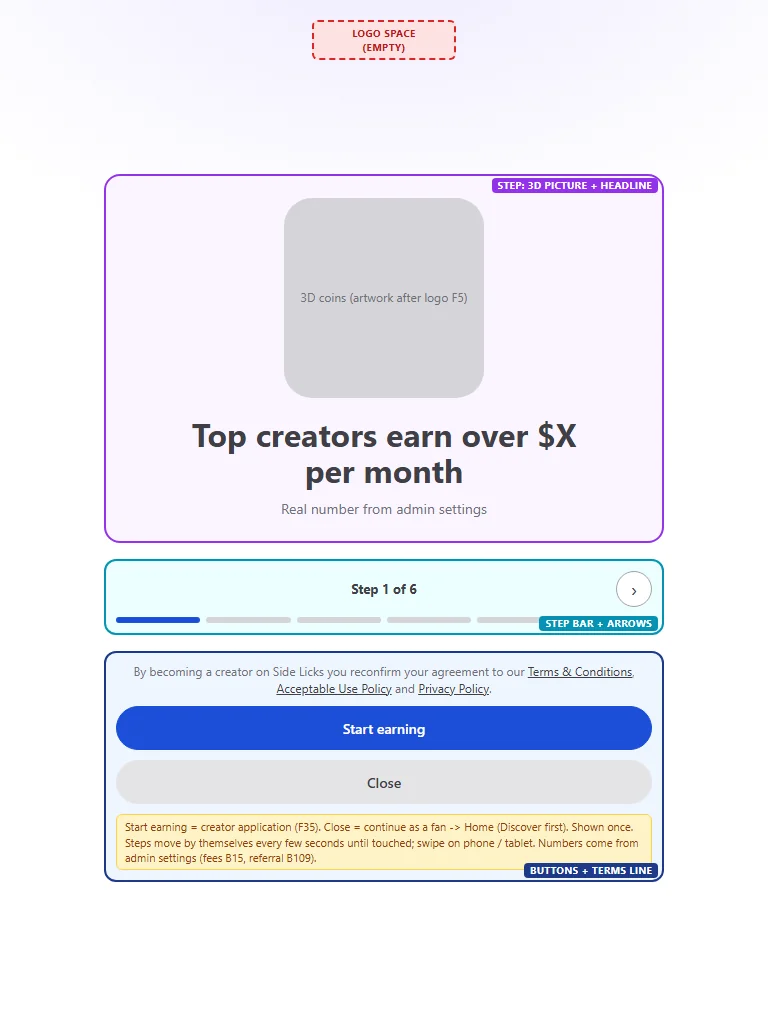
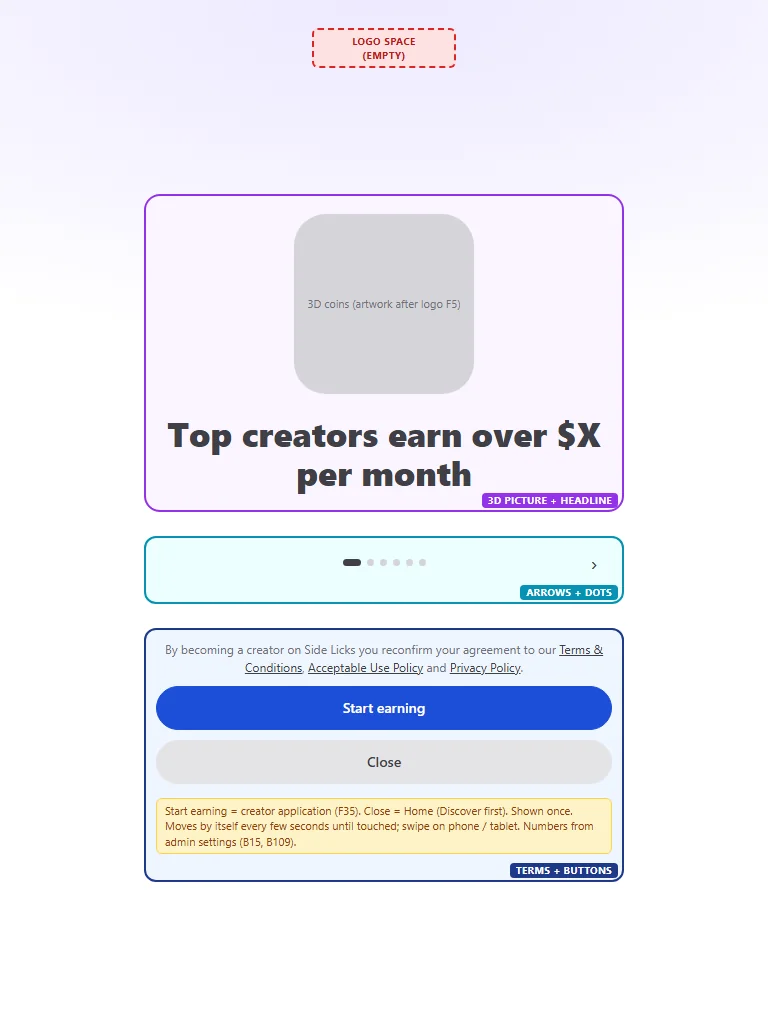
Become a creator wireframe v2: one centred column on every size (owner)

Changed region(s): [[0.125, 0.1562, 0.875, 0.875], [0.4062, 0.0, 0.5938, 0.0938], [0.1875, 0.1875, 0.2188, 0.2188]]

diff --git a/wireframes/onboarding.html b/wireframes/onboarding.html
@@ -7,51 +7,46 @@
 <link rel="stylesheet" href="wf.css">
 <style>
   /* F117: shown to EVERY new user right after sign-up (email or Google), before Home. Also opens from "Become a Creator" in the menu.
-     Different from the competitor: step bar "Step N of 6" instead of dots, and on laptop + desktop the picture sits LEFT of the text. */
+     Layout v2 (owner 2026-10-28): ONE centred column on every size, picture on top and the headline under it on every size, like the reference - logo, picture, headline,
+     arrows + dots, terms line, buttons. Nothing wider than the column, nothing touching the edges. */
   body { background: #fff; }
-  .page { min-height: 100vh; display: flex; flex-direction: column; align-items: center; padding: 12px 16px 24px; gap: 12px;
-          background: radial-gradient(120% 60% at 50% -10%, #ede9fe, #fff 60%); }
-  .top { width: 100%; display: flex; justify-content: center; }
-  .stage { width: 100%; max-width: 480px; display: grid; gap: 16px; flex: 1; align-content: center; }
-  .slide { display: grid; justify-items: center; gap: 18px; padding: 24px 12px; border-radius: 16px; text-align: center; }
-  .picwrap { display: grid; place-items: center; }
-  .pic { width: 150px; height: 150px; border-radius: 28px; background: var(--box-2); display: grid; place-items: center; color: var(--soft); font-size: 12px; padding: 8px; text-align: center; }
-  .text { display: grid; gap: 10px; justify-items: center; }
-  .slide h1 { margin: 0; font-size: 26px; line-height: 1.15; max-width: 340px; }
-  .slide p { margin: 0; color: var(--soft); font-size: 14px; max-width: 340px; }
-  .steps { display: grid; gap: 10px; padding: 12px; border-radius: 12px; }
-  .steps .row { display: flex; align-items: center; justify-content: space-between; gap: 12px; font-size: 13px; }
-  .arrow { width: 36px; height: 36px; border-radius: 50%; border: 1.5px solid var(--line); display: grid; place-items: center; background: #fff; font-size: 20px; }
+  .page {
+    min-height: 100vh; display: flex; flex-direction: column; align-items: center;
+    padding: 16px 20px 28px;
+    background: radial-gradient(140% 45% at 50% 0%, #ede9fe 0%, #f5f3ff 40%, #fff 75%);
+  }
+  .col { width: 100%; max-width: 420px; flex: 1; display: flex; flex-direction: column; align-items: center; justify-content: center; gap: 20px; }
+  .col > .logo-slot { margin-bottom: auto; }
+  .slide { width: 100%; display: grid; justify-items: center; gap: 20px; padding: 20px 16px; border-radius: 16px; text-align: center; }
+  .pic { width: 140px; height: 140px; border-radius: 32px; background: var(--box-2); display: grid; place-items: center; color: var(--soft); font-size: 11px; padding: 10px; }
+  .slide h1 { margin: 0; font-size: 26px; line-height: 1.15; font-weight: 800; }
+  .nav { width: 100%; display: grid; grid-template-columns: 40px 1fr 40px; align-items: center; padding: 8px 8px 24px; border-radius: 12px; }
+  .arrow { width: 36px; height: 36px; border-radius: 50%; display: grid; place-items: center; font-size: 22px; color: var(--ink); }
   .arrow.off { visibility: hidden; }
-  .bar { display: grid; grid-template-columns: repeat(6, 1fr); gap: 6px; }
-  .bar i { height: 6px; border-radius: 3px; background: var(--box-2); }
-  .bar i.on { background: #1d4ed8; }
-  .cta { display: grid; gap: 10px; padding: 12px; border-radius: 12px; }
-  .terms { font-size: 12px; color: var(--soft); text-align: center; }
+  .dots { display: flex; justify-content: center; gap: 6px; }
+  .dots i { width: 7px; height: 7px; border-radius: 50%; background: var(--box-2); }
+  .dots i.on { background: var(--ink); width: 18px; border-radius: 4px; }
+  .cta { width: 100%; display: grid; gap: 10px; padding: 12px 12px 28px; border-radius: 12px; margin-bottom: auto; }
+  .terms { font-size: 12px; color: var(--soft); text-align: center; line-height: 1.5; }
   .btn.close { background: var(--box); border-color: var(--box); color: var(--ink); }
+  .note { margin-top: 4px; }
 
   @media (min-width: 640px) {
-    .page { padding: 20px 32px 40px; }
-    .stage { max-width: 560px; }
-    .pic { width: 200px; height: 200px; }
-    .slide h1 { font-size: 32px; max-width: 420px; }
+    .page { padding: 28px 32px 40px; }
+    .col { max-width: 480px; gap: 24px; }
+    .pic { width: 180px; height: 180px; }
+    .slide h1 { font-size: 34px; }
   }
-  /* laptop + desktop: picture on the LEFT, headline / steps / buttons on the right */
   @media (min-width: 1024px) {
-    .stage { max-width: 960px; grid-template-columns: 1fr 1fr; column-gap: 40px; align-items: center; }
-    .slide { grid-column: 1 / -1; grid-template-columns: 1fr 1fr; column-gap: 40px; text-align: left; justify-items: stretch; padding: 32px; }
-    .picwrap { border-radius: 20px; padding: 40px; background: #f3e8ff; }
-    .text { justify-items: start; }
-    .pic { width: 260px; height: 260px; }
-    .slide h1 { font-size: 40px; max-width: none; }
-    .slide p { max-width: none; }
-    .steps { grid-column: 2; }
-    .cta { grid-column: 2; }
+    .col { max-width: 520px; }
+    .pic { width: 200px; height: 200px; }
+    .slide h1 { font-size: 38px; }
   }
   @media (min-width: 1440px) {
-    .stage { max-width: 1120px; }
-    .pic { width: 320px; height: 320px; }
-    .slide h1 { font-size: 46px; }
+    .page { padding-top: 40px; }
+    .col { max-width: 560px; }
+    .pic { width: 240px; height: 240px; }
+    .slide h1 { font-size: 42px; }
   }
 </style>
 </head>
@@ -63,52 +58,42 @@
   <span class="size"></span>
 </div>
 <div class="page">
-  <div class="top">
+  <div class="col">
     <div class="logo-slot">Logo space<br>(empty)</div>
-  </div>
-  <div class="stage">
-    <section class="slide z-slide" data-zone="Step: 3D picture + headline">
-      <div class="picwrap"><div class="pic" id="pic"></div></div>
-      <div class="text">
-        <h1 id="head"></h1>
-        <p id="sub"></p>
-      </div>
+    <section class="slide z-slide lbl-bottom" data-zone="3D picture + headline">
+      <div class="pic" id="pic"></div>
+      <h1 id="head"></h1>
     </section>
-    <div class="steps z-steps lbl-bottom" data-zone="Step bar + arrows">
-      <div class="row">
-        <span class="arrow" id="prev">&lsaquo;</span>
-        <b id="count"></b>
-        <span class="arrow" id="next">&rsaquo;</span>
-      </div>
-      <div class="bar" id="bar"><i></i><i></i><i></i><i></i><i></i><i></i></div>
+    <div class="nav z-steps lbl-bottom" data-zone="Arrows + dots">
+      <span class="arrow" id="prev">&lsaquo;</span>
+      <div class="dots" id="dots"><i></i><i></i><i></i><i></i><i></i><i></i></div>
+      <span class="arrow" id="next">&rsaquo;</span>
     </div>
-    <div class="cta z-cta lbl-bottom" data-zone="Buttons + terms line">
+    <div class="cta z-cta lbl-bottom" data-zone="Terms + buttons">
       <div class="terms">By becoming a creator on Side Licks you reconfirm your agreement to our <a href="#">Terms &amp; Conditions</a>, <a href="#">Acceptable Use Policy</a> and <a href="#">Privacy Policy</a>.</div>
       <button class="btn" type="button">Start earning</button>
       <button class="btn close" type="button">Close</button>
-      <span class="note">Start earning = creator application (F35). Close = continue as a fan -> Home (Discover first). Shown once. Steps move by themselves every few seconds until touched; swipe on phone / tablet. Numbers come from admin settings (fees B15, referral B109).</span>
+      <span class="note">Start earning = creator application (F35). Close = Home (Discover first). Shown once. Moves by itself every few seconds until touched; swipe on phone / tablet. Numbers from admin settings (B15, B109).</span>
     </div>
   </div>
 </div>
 <script>
   const STEPS = [
-    ["3D coins", "Top creators earn over $X per month", "Real number from admin settings"],
-    ["3D globe", "One platform. Built to make creators money", "Subscriptions, tips, paid posts, messages and live in one place"],
-    ["3D coins", "Keep X% for N days after you verify. Then Y%", "Fee numbers from admin settings (B15)"],
-    ["3D bar chart", "Analytics built to grow your income", "See what earns the most"],
-    ["3D pie chart", "Refer a creator. Earn X% of their income", "Referral numbers from admin settings (B109)"],
-    ["3D tick", "Verified fast. Earning faster", "Get verified and start earning sooner"],
+    ["3D coins", "Top creators earn over $X per month"],
+    ["3D globe", "One platform. Built to make creators money"],
+    ["3D coins", "Keep X% for N days after you verify. Then Y%"],
+    ["3D bar chart", "Analytics built to grow your income"],
+    ["3D pie chart", "Refer a creator. Earn X% of their income"],
+    ["3D tick", "Verified fast. Earning faster"],
   ];
   const p = new URLSearchParams(location.search);
   const n = Math.min(6, Math.max(1, +(p.get('state') || 1)));
   if (p.has('shot')) document.body.classList.add('shot');
   document.querySelectorAll('.wf-bar a[data-s]').forEach(a => a.classList.toggle('on', +a.dataset.s === n));
-  const [pic, head, sub] = STEPS[n - 1];
+  const [pic, head] = STEPS[n - 1];
   document.getElementById('pic').textContent = pic + ' (artwork after logo F5)';
   document.getElementById('head').textContent = head;
-  document.getElementById('sub').textContent = sub;
-  document.getElementById('count').textContent = 'Step ' + n + ' of 6';
-  document.querySelectorAll('#bar i').forEach((i, k) => i.classList.toggle('on', k < n));
+  document.querySelectorAll('#dots i').forEach((i, k) => i.classList.toggle('on', k === n - 1));
   document.getElementById('prev').classList.toggle('off', n === 1);
   document.getElementById('next').classList.toggle('off', n === 6);
 </script>

diff --git a/CLAUDE.md b/CLAUDE.md
@@ -33,9 +33,9 @@ Details: `code.md` (how to run, structure, tests), `design.md` (screens, sizes, 
 
 ## Status (update every task)
 
-- 2026-10-27 Step 1 (B20 + F6 wireframes): project set up, start page + `/api/health` working, wireframes for register / verify email / home made at 4 sizes - **wireframes APPROVED by owner 2026-10-28** (register, verify email, home; with continuous scroll on Discover). F5 (logo) waits for owner. Git remote `origin` = GitHub repo above; Excel task list now v75. First approval message was withdrawn by the owner (no pictures had been shown); colour-coded pictures sent 2026-10-27. Home redesigned (layout v2: live rings, post grid, suggestions inside the feed; then v3: owner wants the menu ALWAYS on the left on every device, no bottom bar). Discover (2026-10-28) = one-line video row -> "Creators you may like" row -> new video row with different creators -> ... (owner). Feed algorithm changed by owner: Discover tab opens first on every login (videos, tap name = profile), Subscribed tab next to it (only followed / subscribed creators); first-login screen replaced by this. Branded mockups wait for the logo (F5).
+- 2026-10-27 Step 1 (B20 + F6 wireframes): project set up, start page + `/api/health` working, wireframes for register / verify email / home made at 4 sizes - **wireframes APPROVED by owner 2026-10-28** (register, verify email, home; with continuous scroll on Discover). F5 (logo) waits for owner. Git remote `origin` = GitHub repo above; Excel task list now v76. First approval message was withdrawn by the owner (no pictures had been shown); colour-coded pictures sent 2026-10-27. Home redesigned (layout v2: live rings, post grid, suggestions inside the feed; then v3: owner wants the menu ALWAYS on the left on every device, no bottom bar). Discover (2026-10-28) = one-line video row -> "Creators you may like" row -> new video row with different creators -> ... (owner). Feed algorithm changed by owner: Discover tab opens first on every login (videos, tap name = profile), Subscribed tab next to it (only followed / subscribed creators); first-login screen replaced by this. Branded mockups wait for the logo (F5).
 - 2026-10-28 **Step 1A DONE: home page built** at http://localhost:3000/home (sample data; real feed API = B110, accounts = B25). Tested 3 runs x 4 sizes. Next: review with the owner which steps come next (owner asked for this), then build register / verify email.
-- 2026-10-28 **Step 1B (owner: register + login before "check your email")**: register BUILT (real page + API + database + Check your email popup + toasts). Login wireframe **approved 2026-10-28** and login BUILT (page + `POST /api/auth/login` + "Send it again"); unverified emails can not log in until verified. Sign up button added under Log in (owner); login wireframe approved again with it. After sign-up "Become a creator" steps wireframe (F117, 6 steps from the Excel) made, **waiting for owner approval**. Excel v75. Emails only go to the `email_outbox` table until an email service is chosen (E1).
+- 2026-10-28 **Step 1B (owner: register + login before "check your email")**: register BUILT (real page + API + database + Check your email popup + toasts). Login wireframe **approved 2026-10-28** and login BUILT (page + `POST /api/auth/login` + "Send it again"); unverified emails can not log in until verified. Sign up button added under Log in (owner); login wireframe approved again with it. After sign-up "Become a creator" steps wireframe (F117, 6 steps from the Excel) made, redone as one centred column (owner), **waiting for owner approval**. Excel v76. Emails only go to the `email_outbox` table until an email service is chosen (E1).
 
 ## Working notes for Claude
 

diff --git a/design.md b/design.md
@@ -52,7 +52,7 @@ Font: Geist (next/font, self-hosted at build). Change brand colours in one place
 
 **Log in** (approved + built 2026-10-28) - same frame as Register (info panel on laptop+, centred card on tablet, plain form on phone). "Welcome back", Continue with Google, or, Email, Password + Show, "Keep me logged in" tick, "Forgot password?" link, Log in button (grey until both filled), outlined "New to Side Licks? Sign up" button right under it (owner 2026-10-28, like Fanvue) -> Register, "New here? Create account" top right. States: wrong email or password = red box above the form; email not verified yet = yellow box "Please verify your email first" + "Send it again". After log in -> Home (Discover first). Email not verified = no log-in yet (verify first); "Send it again" sends a new link (same 1-minute / 5-an-hour limits). "Keep me logged in" ticked = 30 days, not ticked = until the browser closes (server: 1 day). "Forgot password?" = toast "comes in a later step" (F13). Real pictures: `wireframes/real/login-*.webp`.
 
-**After sign-up: Become a creator** (F117, new 2026-10-28, waiting) - shown to every new user right after sign-up, before Home (owner). Full screen, soft glow at the top, empty logo space centred. 6 steps from the Excel (S104-S109): coins "Top creators earn over $X per month", globe "One platform. Built to make creators money", coins "Keep X% for N days after you verify. Then Y%", bar chart "Analytics built to grow your income", pie chart "Refer a creator. Earn X% of their income", tick "Verified fast. Earning faster". Different from the competitor: "Step N of 6" bar instead of dots, and on laptop + desktop the picture is LEFT of the headline. Arrows (back hidden on step 1, next hidden on step 6), swipe, auto-move until touched; terms line; "Start earning" (creator application F35) and "Close" (-> Home). Shown once.
+**After sign-up: Become a creator** (F117, new 2026-10-28, waiting) - shown to every new user right after sign-up, before Home (owner). Full screen, soft glow at the top, empty logo space centred. 6 steps from the Excel (S104-S109): coins "Top creators earn over $X per month", globe "One platform. Built to make creators money", coins "Keep X% for N days after you verify. Then Y%", bar chart "Analytics built to grow your income", pie chart "Refer a creator. Earn X% of their income", tick "Verified fast. Earning faster". Layout v2 (owner 2026-10-28: v1 side-by-side "looked edgy and bleeding out"): ONE centred column on every size (max 420 / 480 / 520 / 560 px phone / tablet / laptop / desktop) - logo space, 3D picture, headline UNDER the picture, arrows at the column edges with dots between (active dot = short bar), terms line, buttons. Arrows (back hidden on step 1, next hidden on step 6), swipe, auto-move until touched; terms line; "Start earning" (creator application F35) and "Close" (-> Home). Shown once.
 
 **Live now row** (owner 2026-10-28): exactly 5 rings in view on every size (each 1/5 of the row, ring 50 / 68 / 80 / 92 px phone / tablet / laptop / desktop), first name + "N watching" (phone: eye icon + N), arrows / swipe move a full 5, left arrow grey at the start, right arrow grey at the end.
 

diff --git a/code.md b/code.md
@@ -142,3 +142,4 @@ Goal: Discover never ends, rows never look cut off, and the fan is not worn out 
 - 2026-10-28 STEP 1B (part 2): login wireframe approved and built: /login page (LoginForm), POST /api/auth/login (argon2 check, same message for wrong email or password, dummy hash so unknown emails take as long; unverified = 403 code "unverified", no session; keepLoggedIn = 30-day cookie, else browser-session cookie + 1-day server session), POST /api/auth/login/resend-verification (needs email + password, same limits). Tests: backend e2e 13/13 against the real DB (sessions + cookies checked), Playwright 48/48 at 4 sizes x 3 runs (login test marks the account verified in the real DB with psql). Not yet: limit on failed log-in tries (brute force) - add with B34 / security tasks.
 - 2026-10-28 Login: "New to Side Licks? Sign up" button under Log in -> /register (owner, wireframe + page). Login tests 12/12 x 2 runs at 4 sizes (register 12/12).
 - 2026-10-28 Wireframe: wireframes/onboarding.html (F117 "Become a creator" steps after sign-up, 6 states) + new zones z-slide / z-steps / z-cta in wf.css; index.html now also lists login + onboarding.
+- 2026-10-28 onboarding.html layout v2: one centred column on every size, picture above the headline, arrows + dots (owner: v1 side-by-side looked bad).
